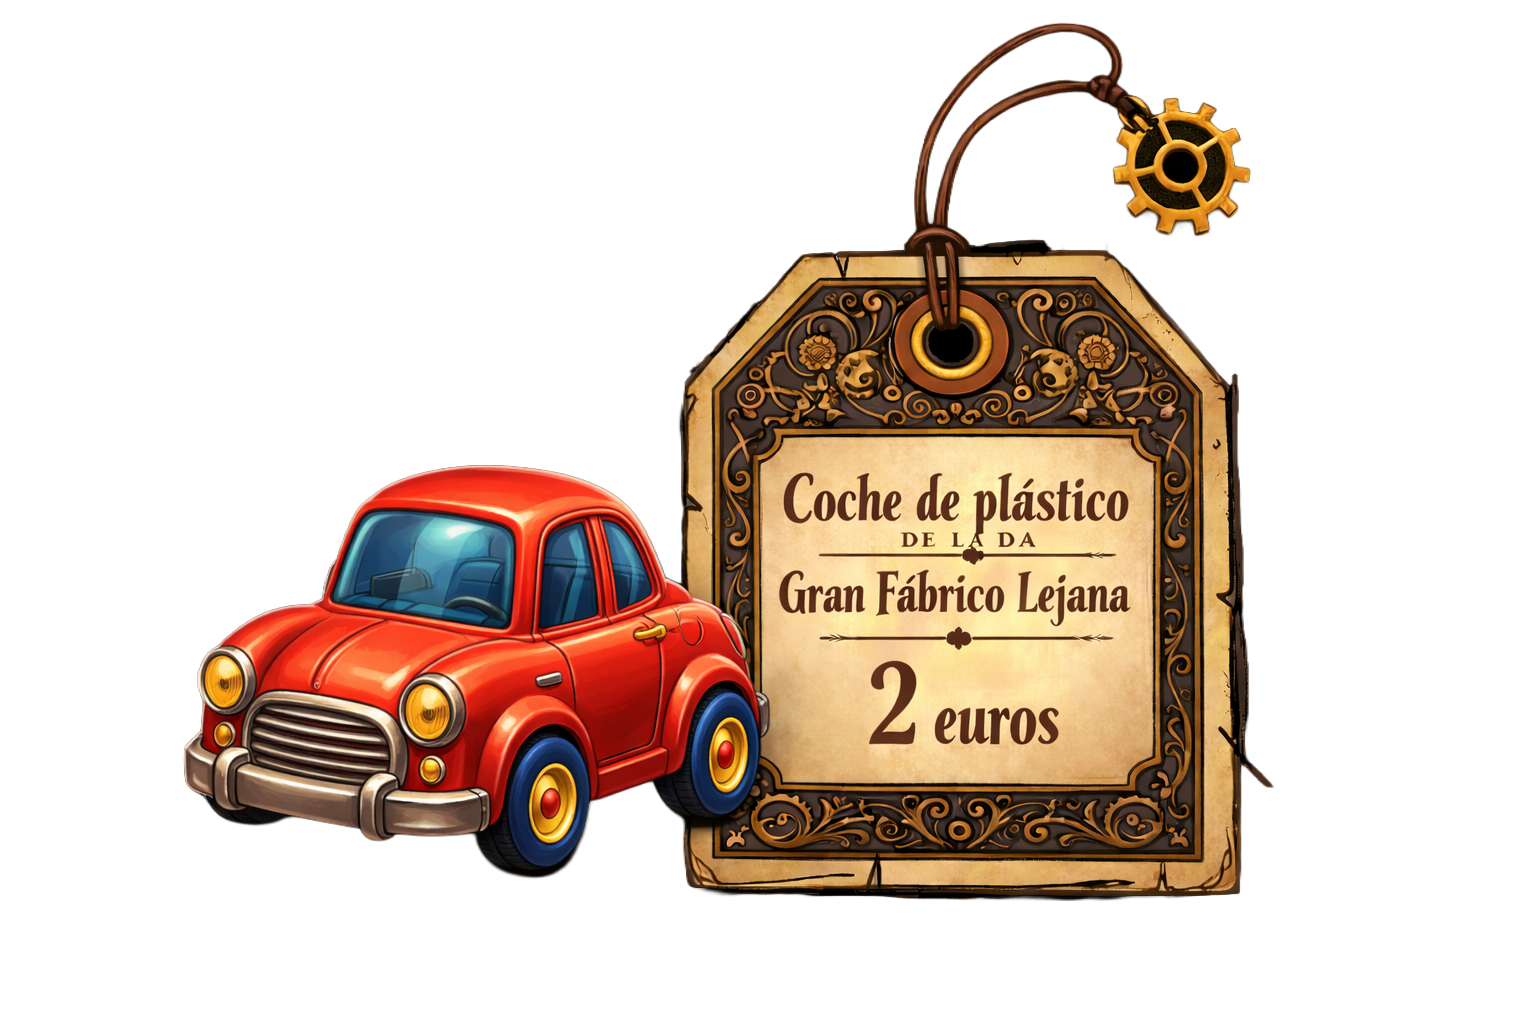
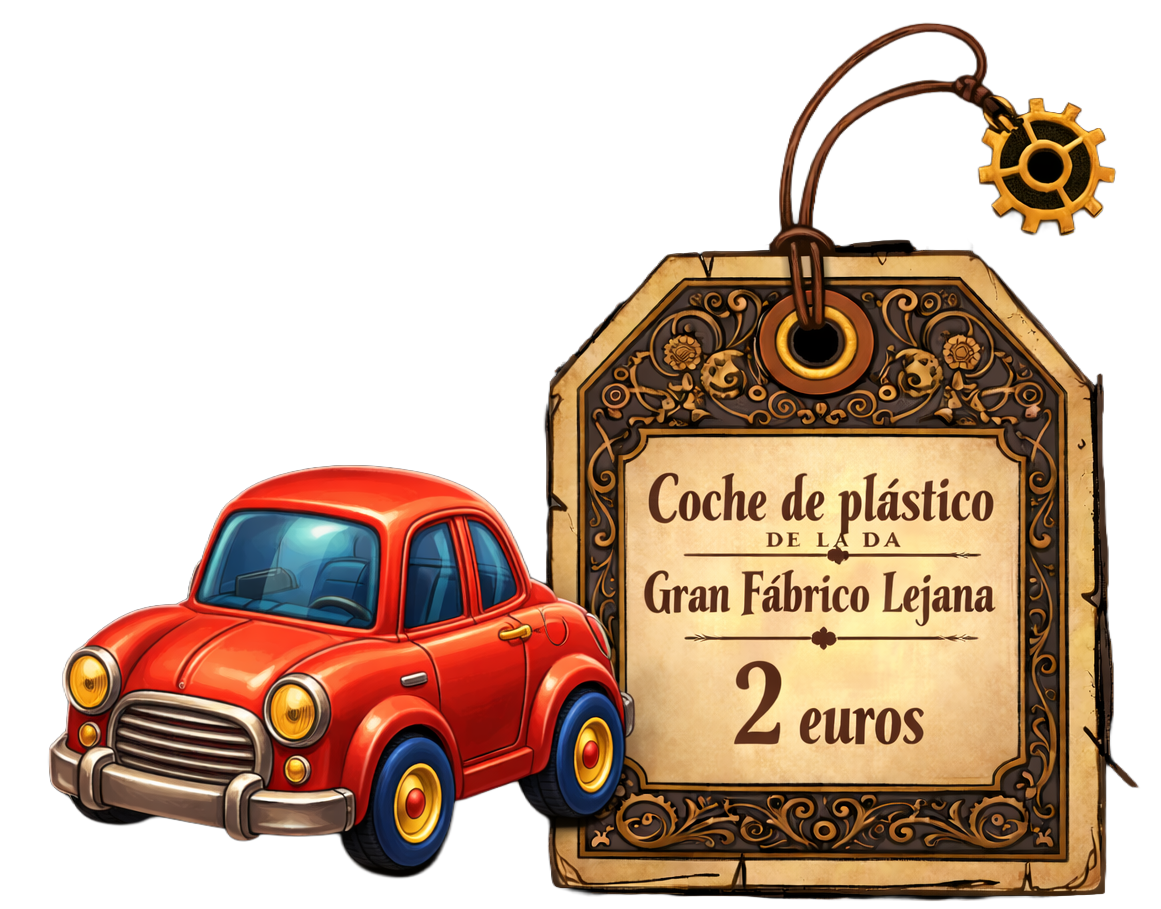
Actualizar imágenes y usar balda única para tren y coche

diff --git a/styles.css b/styles.css
@@ -141,6 +141,28 @@ body {
   box-shadow: 0 0 0 3px rgba(34, 197, 94, 0.22);
 }
 
+.product-shelf {
+  grid-column: 1 / -1;
+  position: relative;
+  display: flex;
+  gap: 1rem;
+  align-items: flex-end;
+  justify-content: center;
+  padding: 0.2rem 0.4rem 1.1rem;
+}
+
+.product-shelf::after {
+  content: "";
+  position: absolute;
+  left: 0.8rem;
+  right: 0.8rem;
+  bottom: 0.35rem;
+  height: 14px;
+  border-radius: 4px;
+  background: linear-gradient(180deg, #d6b07f 0%, #b78653 100%);
+  box-shadow: 0 3px 0 #8e623b, 0 7px 10px rgba(30, 41, 59, 0.18);
+}
+
 .product-card {
   padding: 0.9rem;
   border: 1px solid transparent;
@@ -158,23 +180,11 @@ body {
 }
 
 .product-card.image-only {
-  position: relative;
+  width: min(240px, 48%);
   display: flex;
   align-items: center;
   justify-content: center;
-  padding: 0.2rem 0.4rem 1.1rem;
-}
-
-.product-card.image-only::after {
-  content: "";
-  position: absolute;
-  left: 0.5rem;
-  right: 0.5rem;
-  bottom: 0.35rem;
-  height: 14px;
-  border-radius: 4px;
-  background: linear-gradient(180deg, #d6b07f 0%, #b78653 100%);
-  box-shadow: 0 3px 0 #8e623b, 0 7px 10px rgba(30, 41, 59, 0.18);
+  padding: 0;
 }
 
 .product-image {
@@ -295,5 +305,13 @@ body {
 @media (max-width: 860px) {
   .board {
     grid-template-columns: 1fr;
+  }
+
+  .product-shelf {
+    gap: 0.6rem;
+  }
+
+  .product-card.image-only {
+    width: 48%;
   }
 }

diff --git a/index.html b/index.html
@@ -60,13 +60,15 @@
               <p class="price">6 €</p>
             </article>
 
-            <article class="product-card image-only" draggable="true" data-id="coche-fabrica-lejana">
-              <img class="product-image" src="images/coche.png" alt="Coche de plástico de fábrica lejana" draggable="false" />
-            </article>
+            <div class="product-shelf">
+              <article class="product-card image-only" draggable="true" data-id="coche-fabrica-lejana">
+                <img class="product-image" src="images/coche.png" alt="Coche de plástico de fábrica lejana" draggable="false" />
+              </article>
 
-            <article class="product-card image-only" draggable="true" data-id="tren-madera-local">
-              <img class="product-image" src="images/tren.png" alt="Tren de madera local" draggable="false" />
-            </article>
+              <article class="product-card image-only" draggable="true" data-id="tren-madera-local">
+                <img class="product-image" src="images/tren.png" alt="Tren de madera local" draggable="false" />
+              </article>
+            </div>
           </div>
         </section>
 
